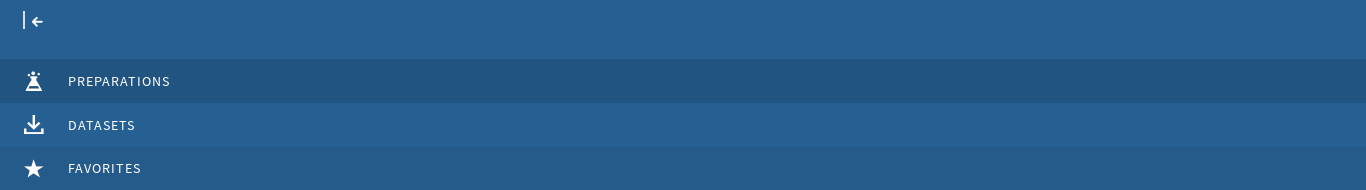
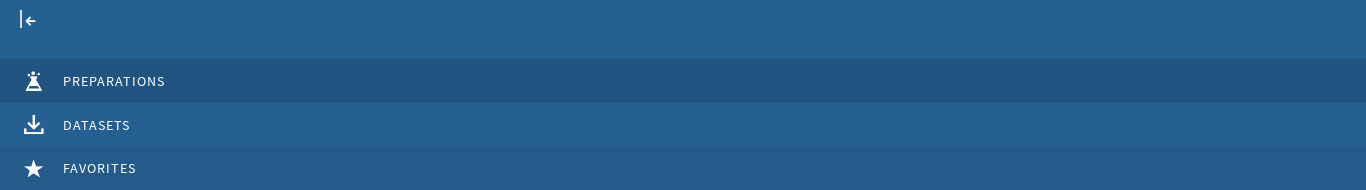
fix(SidePanel): adjust styles of the toggle btn (#229)

diff --git a/src/SidePanel/SidePanel.scss b/src/SidePanel/SidePanel.scss
@@ -35,9 +35,8 @@ $tc-side-panel-docked-spacing: 15px !default;
 		font-size: 1em;
 		text-transform: uppercase;
 
-		i + span,
 		:global(.tc-svg-icon) + span {
-			padding-left: $padding-large;
+			padding-left: $padding-normal;
 		}
 
 		span {
@@ -57,7 +56,6 @@ $tc-side-panel-docked-spacing: 15px !default;
 	&.docked {
 		padding: 0 $padding-normal;
 
-		.toggle-btn i,
 		.toggle-btn :global(.tc-svg-icon) {
 			transform: rotate(-180deg);
 		}
@@ -74,21 +72,21 @@ $tc-side-panel-docked-spacing: 15px !default;
 	}
 
 	.toggle-btn {
-		margin-left: 3px;
+		margin-left: 0;
+		margin-bottom: $padding-large;
 
-		& :global(.tc-svg-icon) {
+		& svg:global(.tc-svg-icon) {
 			fill: $tc-side-panel-toggle-color;
-			width: 1.5em;
-			height: 1.5em;
+			width: 1.3em;
+			height: 1.3em;
 			transition: 0.2s transform ease-out;
 		}
 
 		&:before {
 			content: '';
-			height: 1.1em;
-			margin-right: -2px;
+			height: 0.9em;
+			margin-right: -5px;
 			border-left: 2px solid $tc-side-panel-toggle-color;
 		}
 	}
-
 }
